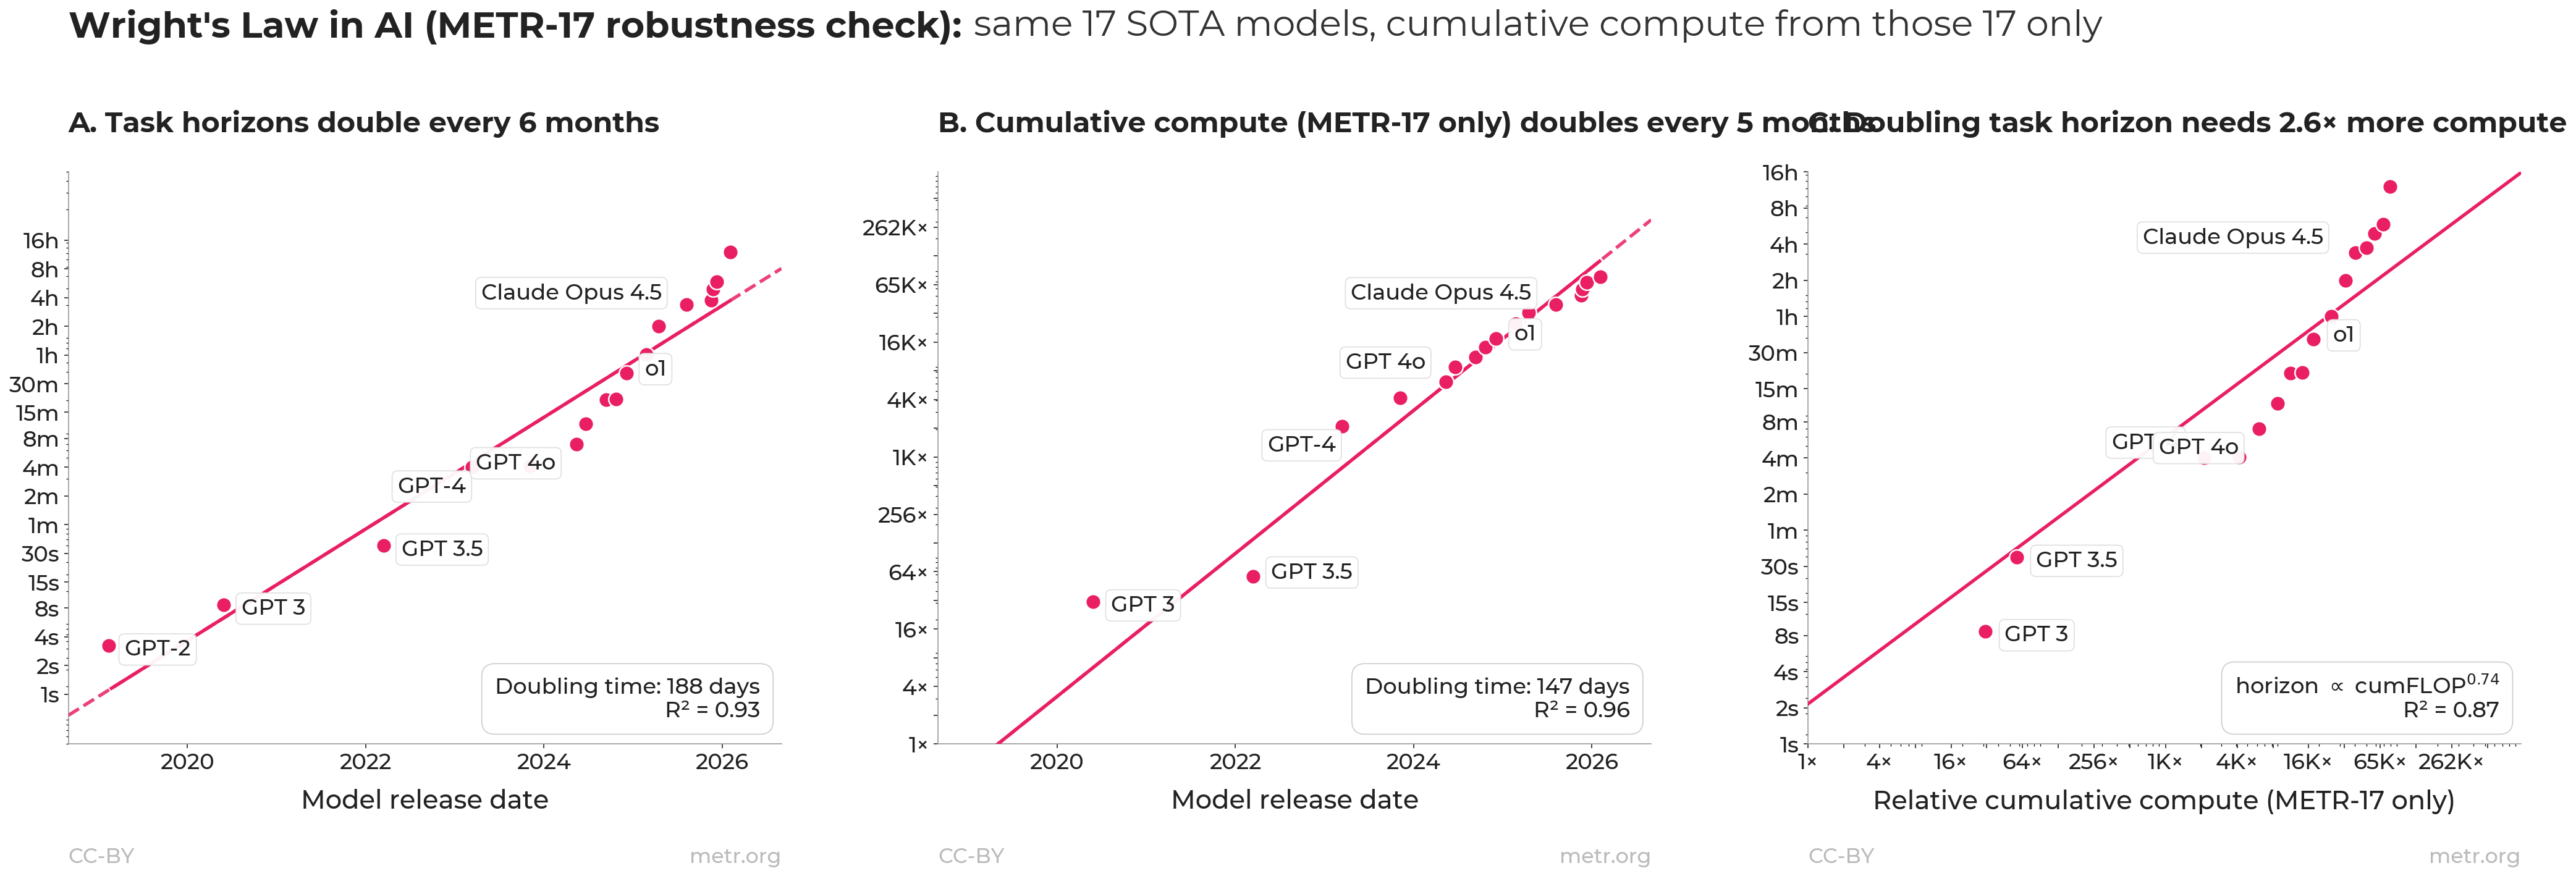
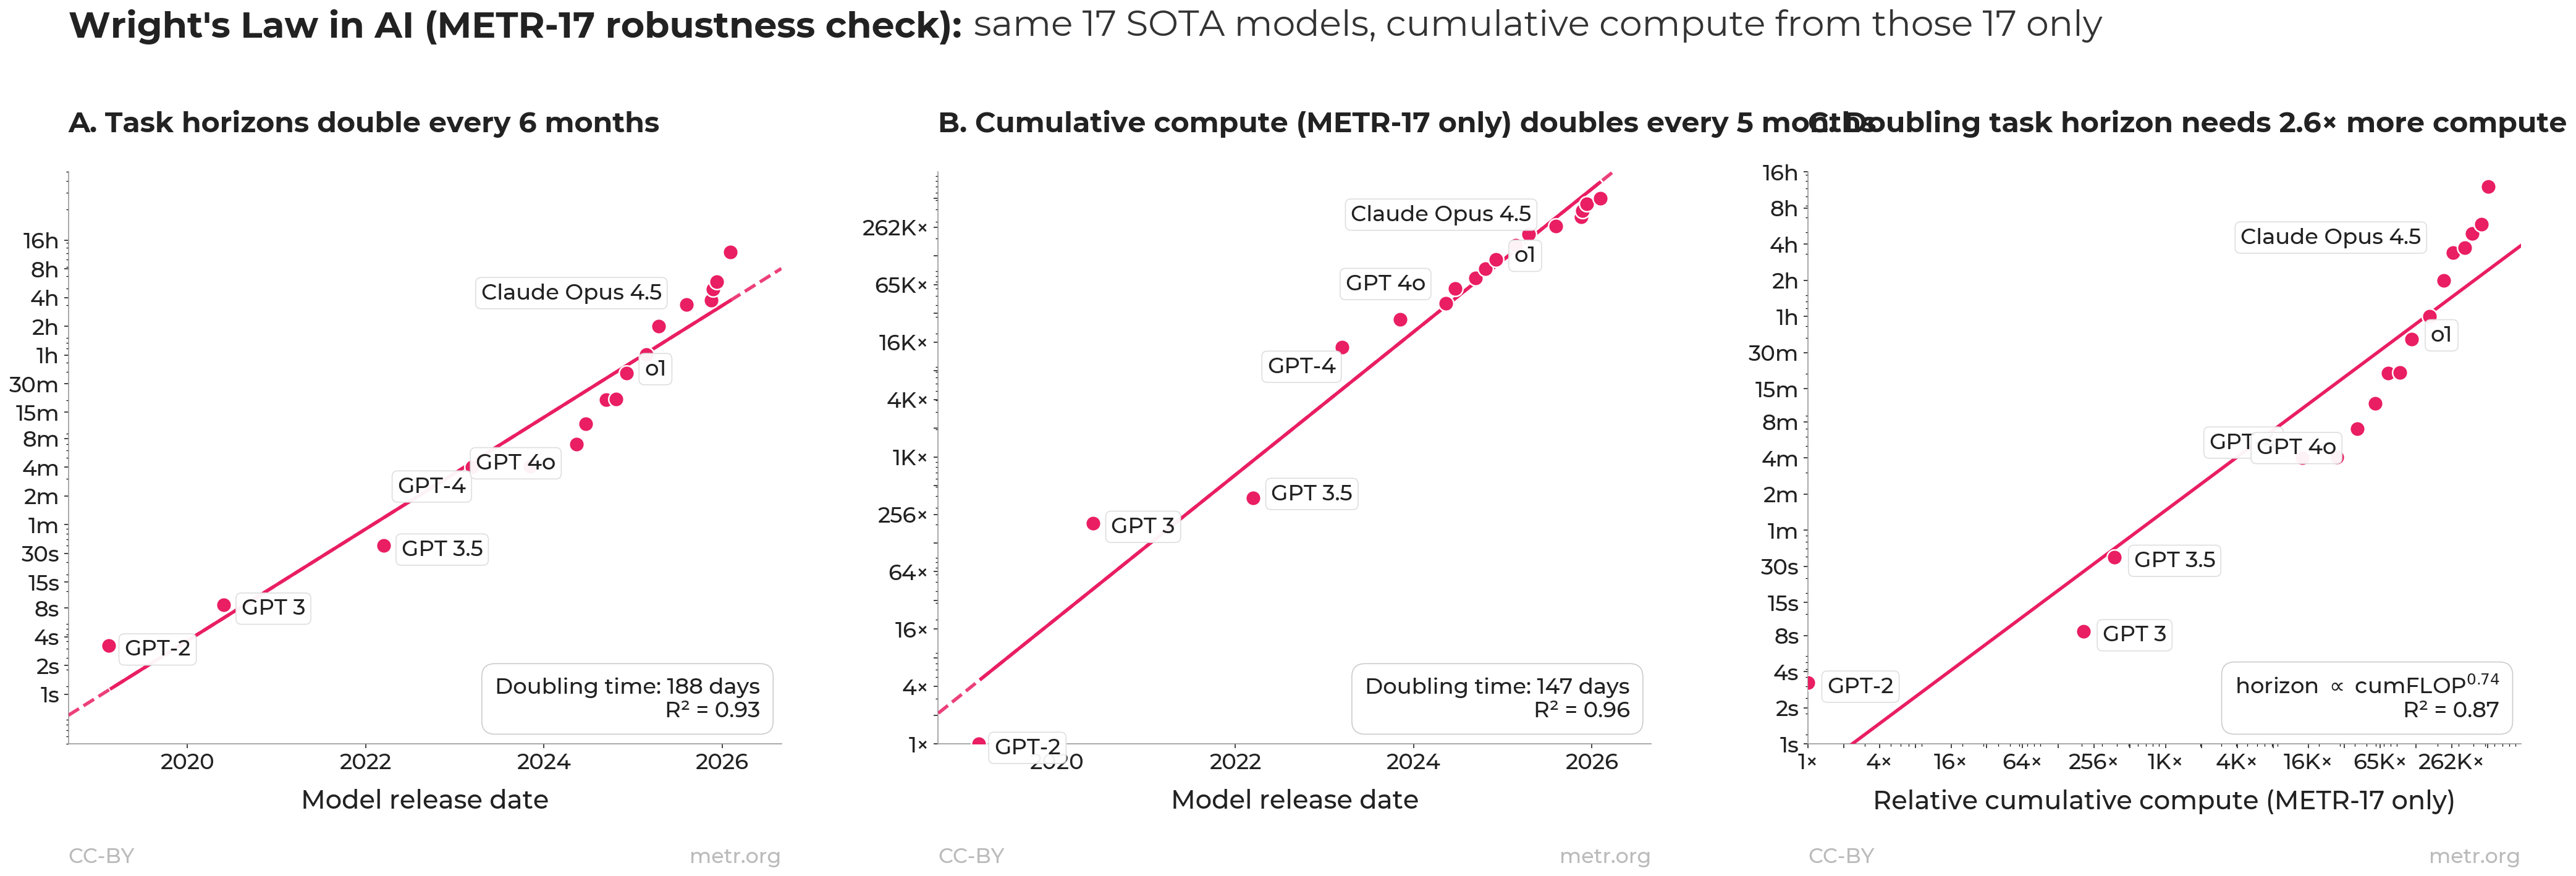
Fix anchor in METR-17 robustness figure so GPT-2 is visible in all panels
The full-corpus method's anchor (1e22 FLOP) is appropriate for that method
because Epoch's pre-GPT-2 frontier compute brings the cumulative-at-GPT-2-date
to ~1e22. In the METR-17-only method, GPT-2's cumulative is just its own
1.5e21 FLOPs, which sat below the chart minimum.

Re-anchor METR-17 version at 1.5e21 (= GPT-2's training FLOP) so GPT-2 sits
at exactly 1× on the relative axis. All 17 dots and 7 headline labels now
visible in all three panels. Fit numbers unchanged (anchor is a multiplicative
shift in x, doesn't affect Wright exponent or R²).

diff --git a/wrights_law_metr17.py b/wrights_law_metr17.py
@@ -79,7 +79,7 @@ METR_FLOP = {
 metr['own_flop'] = metr['id'].map(METR_FLOP)
 metr['flop_cum'] = metr['own_flop'].cumsum()
 
-ANCHOR_CUM = 1e22
+ANCHOR_CUM = 1.5e21  # anchor at GPT-2's own training FLOP so it sits at exactly 1× on the relative axis
 
 # === Fits ===
 def fit_lin(x, y):